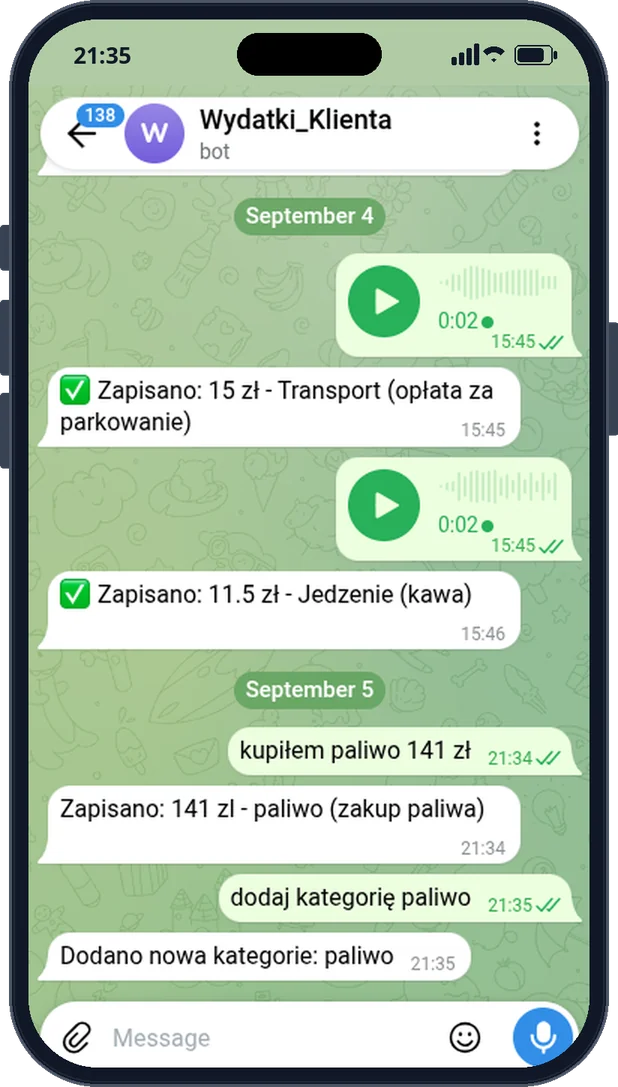
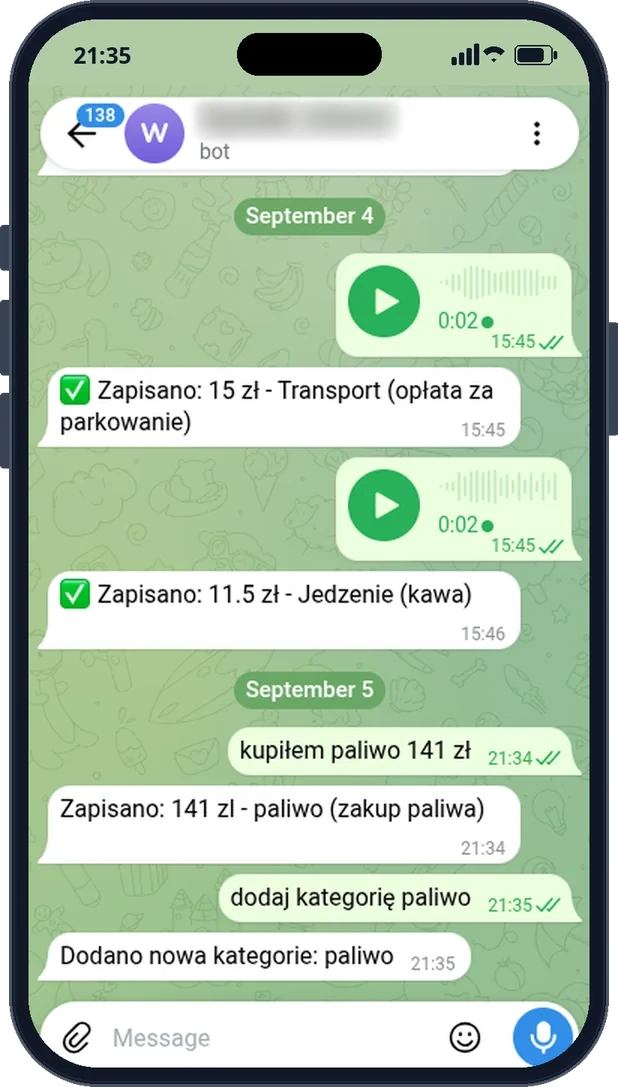
portfolio: blur Telegram bot names in expense and shopping-list mockups
Bump image URLs with ?v=2 so browsers fetch the new versions.

Claude-Session: https://claude.ai/code/session_011ZCrKZhcrSAt51KjwUWWn8

Changed region(s): [[0.3074, 0.0911, 0.6456, 0.1518]]

diff --git a/templates/website/index.html b/templates/website/index.html
@@ -407,7 +407,7 @@
                 </div>
                 </div>
                 <div class="md:col-span-2 md:order-first flex justify-center">
-                    <img src="{% static 'img/asystent-wydatkow.webp' %}" width="618" height="1087" loading="lazy"
+                    <img src="{% static 'img/asystent-wydatkow.webp' %}?v=2" width="618" height="1087" loading="lazy"
                          alt="Rozmowa z botem wydatków na Telegramie: głosówki zapisane jako wydatki, wpis tekstem i dodanie nowej kategorii"
                          class="w-full max-w-[280px] h-auto drop-shadow-2xl">
                 </div>
@@ -454,7 +454,7 @@
                 </div>
                 </div>
                 <div class="md:col-span-2 flex justify-center">
-                    <img src="{% static 'img/lista-zakupow.webp' %}" width="618" height="1087" loading="lazy"
+                    <img src="{% static 'img/lista-zakupow.webp' %}?v=2" width="618" height="1087" loading="lazy"
                          alt="Rozmowa z botem listy zakupów na Telegramie: dodawanie produktu, lista i komendy pomocy"
                          class="w-full max-w-[280px] h-auto drop-shadow-2xl">
                 </div>
